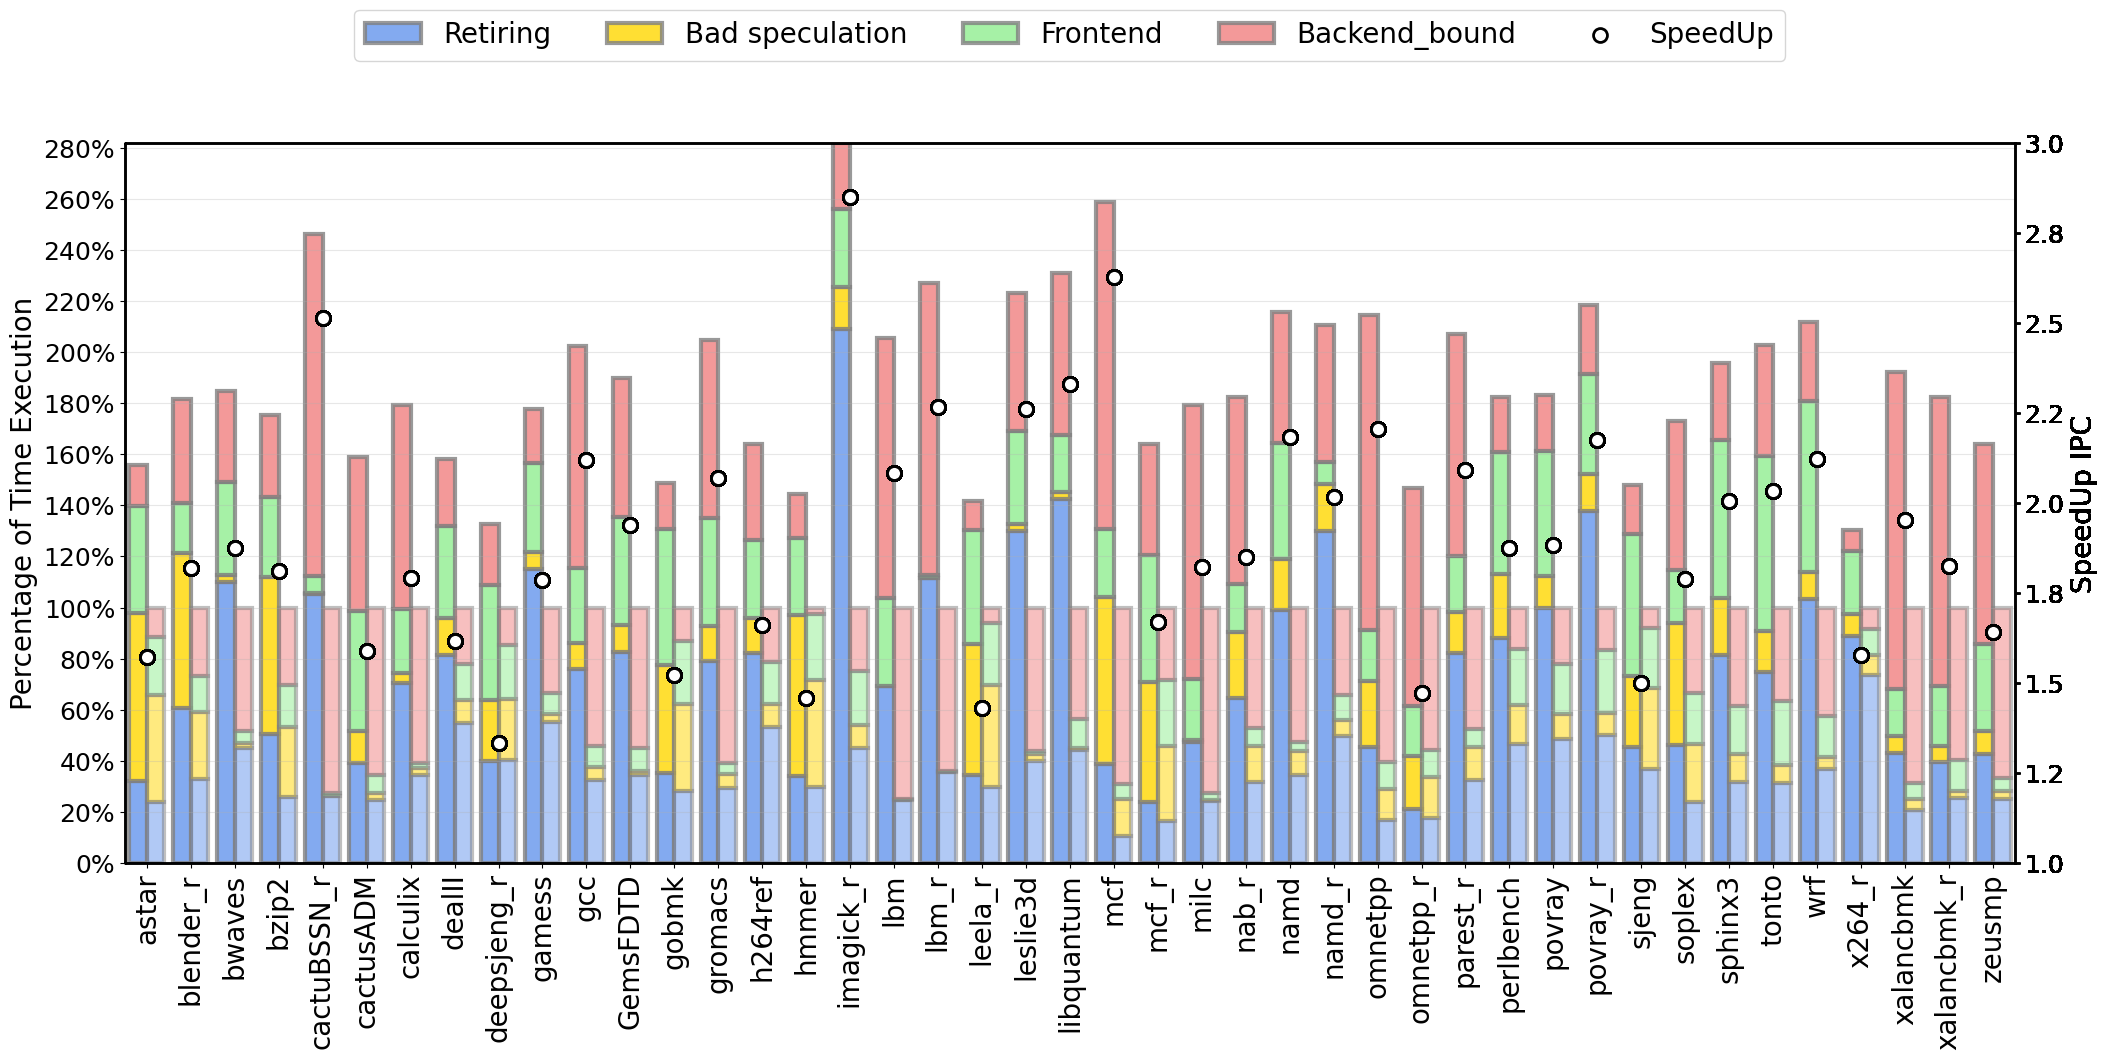
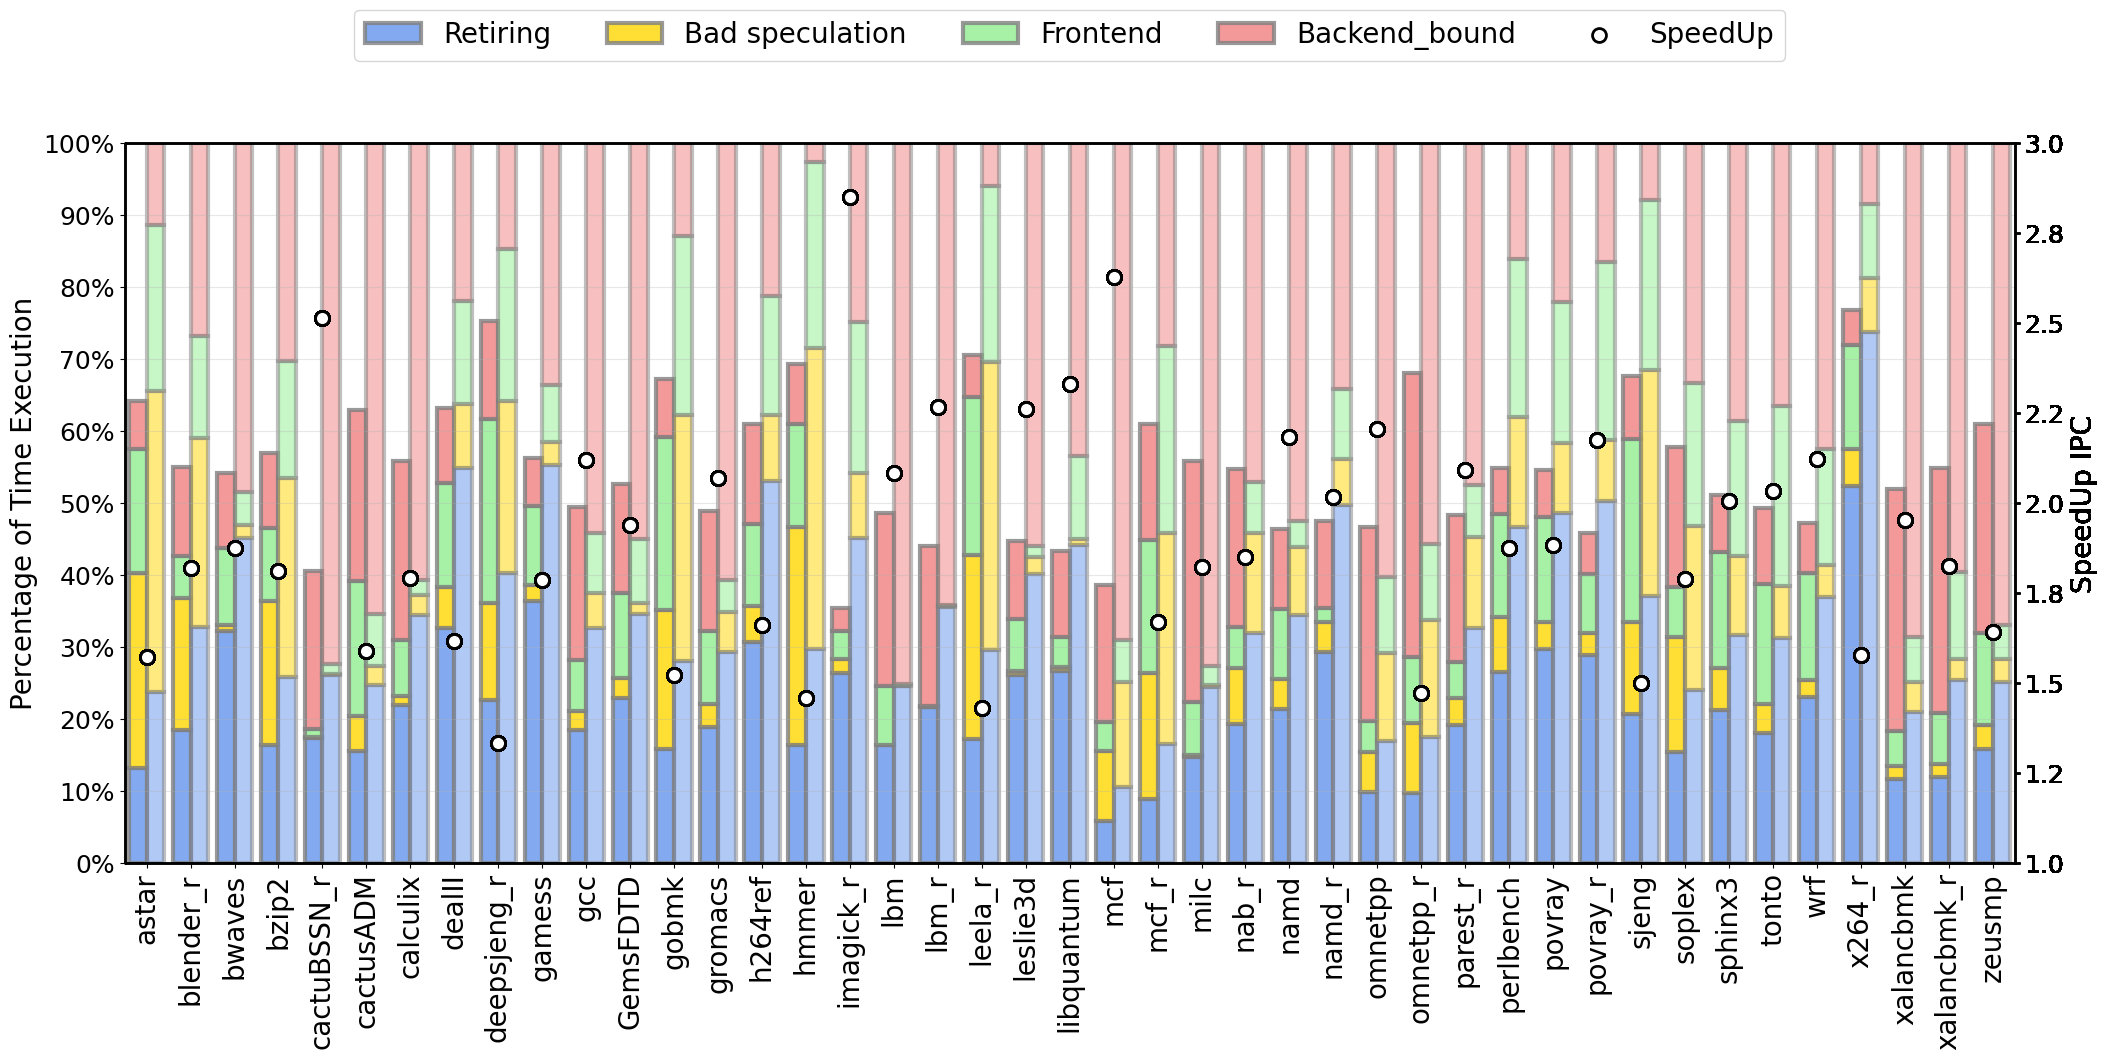
Goes

diff --git a/comparativa_topdown.py b/comparativa_topdown.py
@@ -43,7 +43,7 @@ def main():
             print(f"Error: Las aplicaciones no coinciden: {datos_P[0]} vs {datos_E[0]}")
             continue
 
-        speedup_tiempo = float(datos_E[1]) / float(datos_P[1])
+        speedup_tiempo = float(datos_P[1]) / float(datos_E[1])
         app_names.append(datos_P[0])
 
         retiring_values.append((speedup_tiempo * float(datos_P[2]), float(datos_E[2])))
